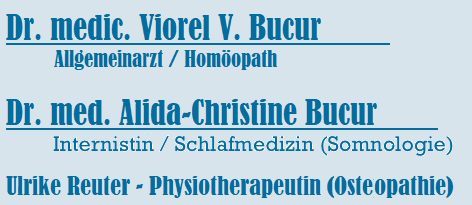
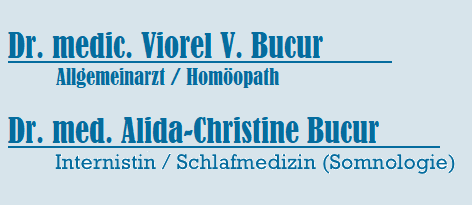
requested changes

diff --git a/content/pages/sprechstunden.md b/content/pages/sprechstunden.md
@@ -5,11 +5,12 @@ date: 2017-12-23
 pageorder: 4  
 Montag          7.30 - 11.00 und 17.00 - 19.00	 
 Dienstag        7.30 - 11.00 und 17.00 - 19.00	
-Mittwoch        7.30 - 11.00	
+Mittwoch        7.30 - 11.00 Privatsprechstunde Akupunktur, Homöopathie, Neuraltherapie, sonstige Spezialuntersuchungen
 Donnerstag      7.30 - 11.00 und 17.00 - 19.00	
 Freitag         7.30 - 11.00 und 16.00 - 18.00	
 Samstag         9.00 - 10.00	
 Ernährungsberatung	nach Termin	
+**Reguläre, verbindliche Labortage:** Montag und Donnerstag 7.30-10.00
 
 ![Pelican](../images/bild_notfall.jpg)
 

diff --git a/content/pages/kontakt.md b/content/pages/kontakt.md
@@ -16,11 +16,3 @@ Handy:	(0172) - 696 3473
 
 Mail:	[vblues@aol.com](mailto:vblues@aol.com)
  	 
-Osteopathie:	
-
-Tel:	0174 - 21 88 409
-
-09392 - 98939
-
-Mail:	[info@privatpraxisreuter.de](mailto:info@privatpraxisreuter.de)
-

diff --git a/content/pages/spezialgebiete.md b/content/pages/spezialgebiete.md
@@ -49,6 +49,3 @@ Dr. med. Alida-Christine Bucur
 
 - Schlafmedizin (Somnologin)
 
-Ulrike Reuter - Physiotherapeutin (Osteopathie) 
-------------------------------------------------
-- Privatpraxis (Termine nach Vereinbarung)
